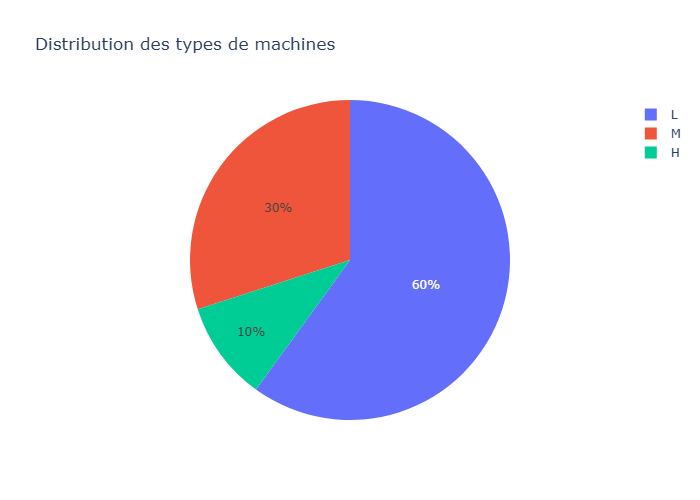
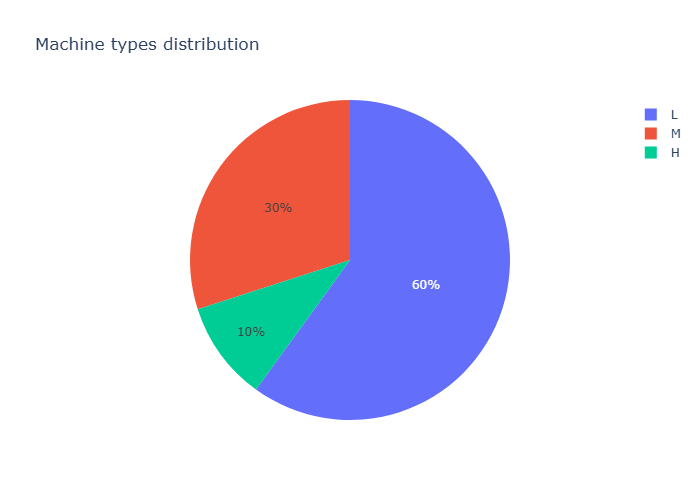
Translate notebook and README to English, rename output files

Changed region(s): [[0.06, 0.06, 0.48, 0.12]]

diff --git a/README.md b/README.md
@@ -44,10 +44,10 @@ ai-industrial-monitoring-platform/
 ![Distribution types](outputs/distribution_types.png)
 
 ### Failure Rate by Machine Type
-![Failure rate](outputs/taux_pannes_type.png)
+![Failure rate](outputs/failure_rate.png)
 
 ### Failure Modes
-![Failure modes](outputs/modes_panne.png)
+![Failure modes](outputs/failure_modes.png)
 
 ### Correlation Matrix
 ![Correlation](outputs/correlation.png)